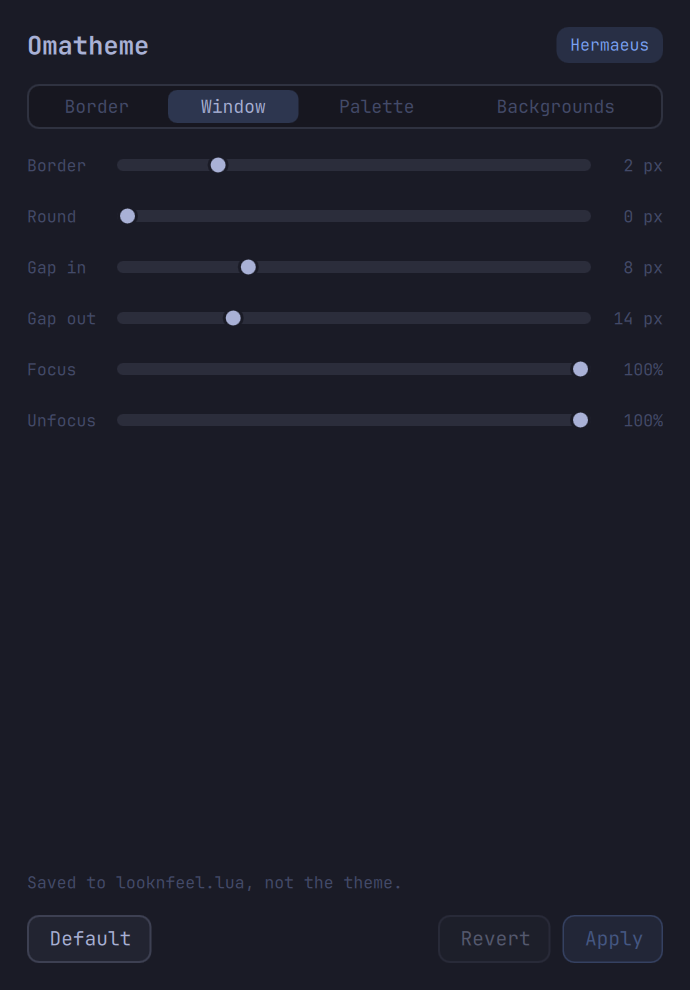
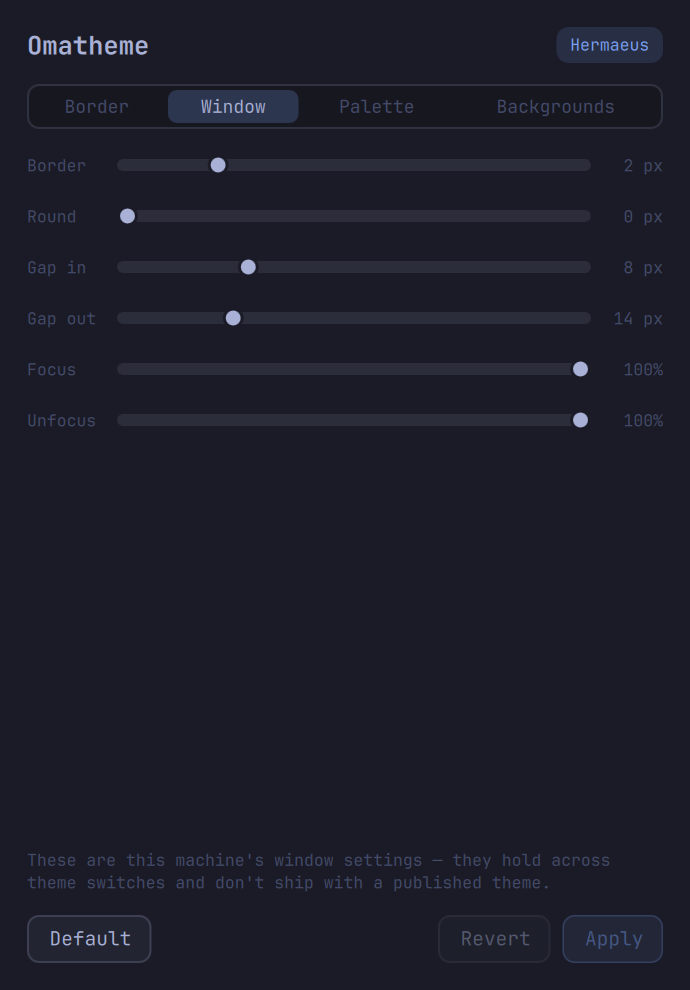
Refresh the README screenshots and say why window chrome stays home
The docs images predated the label-column widening, the
content-driven window height and the reworded Window note, so all
four are recaptured through the same pipeline (focused, opaque via
set_prop, cropped to the settled hyprctl geometry).

The Window tab's note grows from "Saved to looknfeel.lua, not the
theme." into a sentence that states the intent instead of reading
like an apology: these are the machine's window settings, they hold
across theme switches, and they don't ship with a published theme.
The split itself is deliberate and matches Omarchy: Quattro themes
can ship a hyprland.lua (five stock themes do), but they use it for
border-color specials -- gaps and rounding are personal chrome that
switching themes should never yank around.

diff --git a/.config/quickshell/omatheme/Panels/WindowPanel.qml b/.config/quickshell/omatheme/Panels/WindowPanel.qml
@@ -213,7 +213,11 @@ ColumnLayout {
   Item { Layout.fillHeight: true }
 
   Text {
-    text: "Saved to looknfeel.lua, not the theme."
+    // Deliberate split, not a shortcut: window chrome is a machine
+    // preference (looknfeel.lua), so it holds across theme switches and
+    // stays out of published themes -- Omarchy's own stock themes ship
+    // hyprland.lua only for border-color specials, never gaps.
+    text: "These are this machine's window settings — they hold across theme switches and don't ship with a published theme."
     color: Theme.dim
     font.family: Theme.fontFamily
     font.pixelSize: Theme.size(11)
